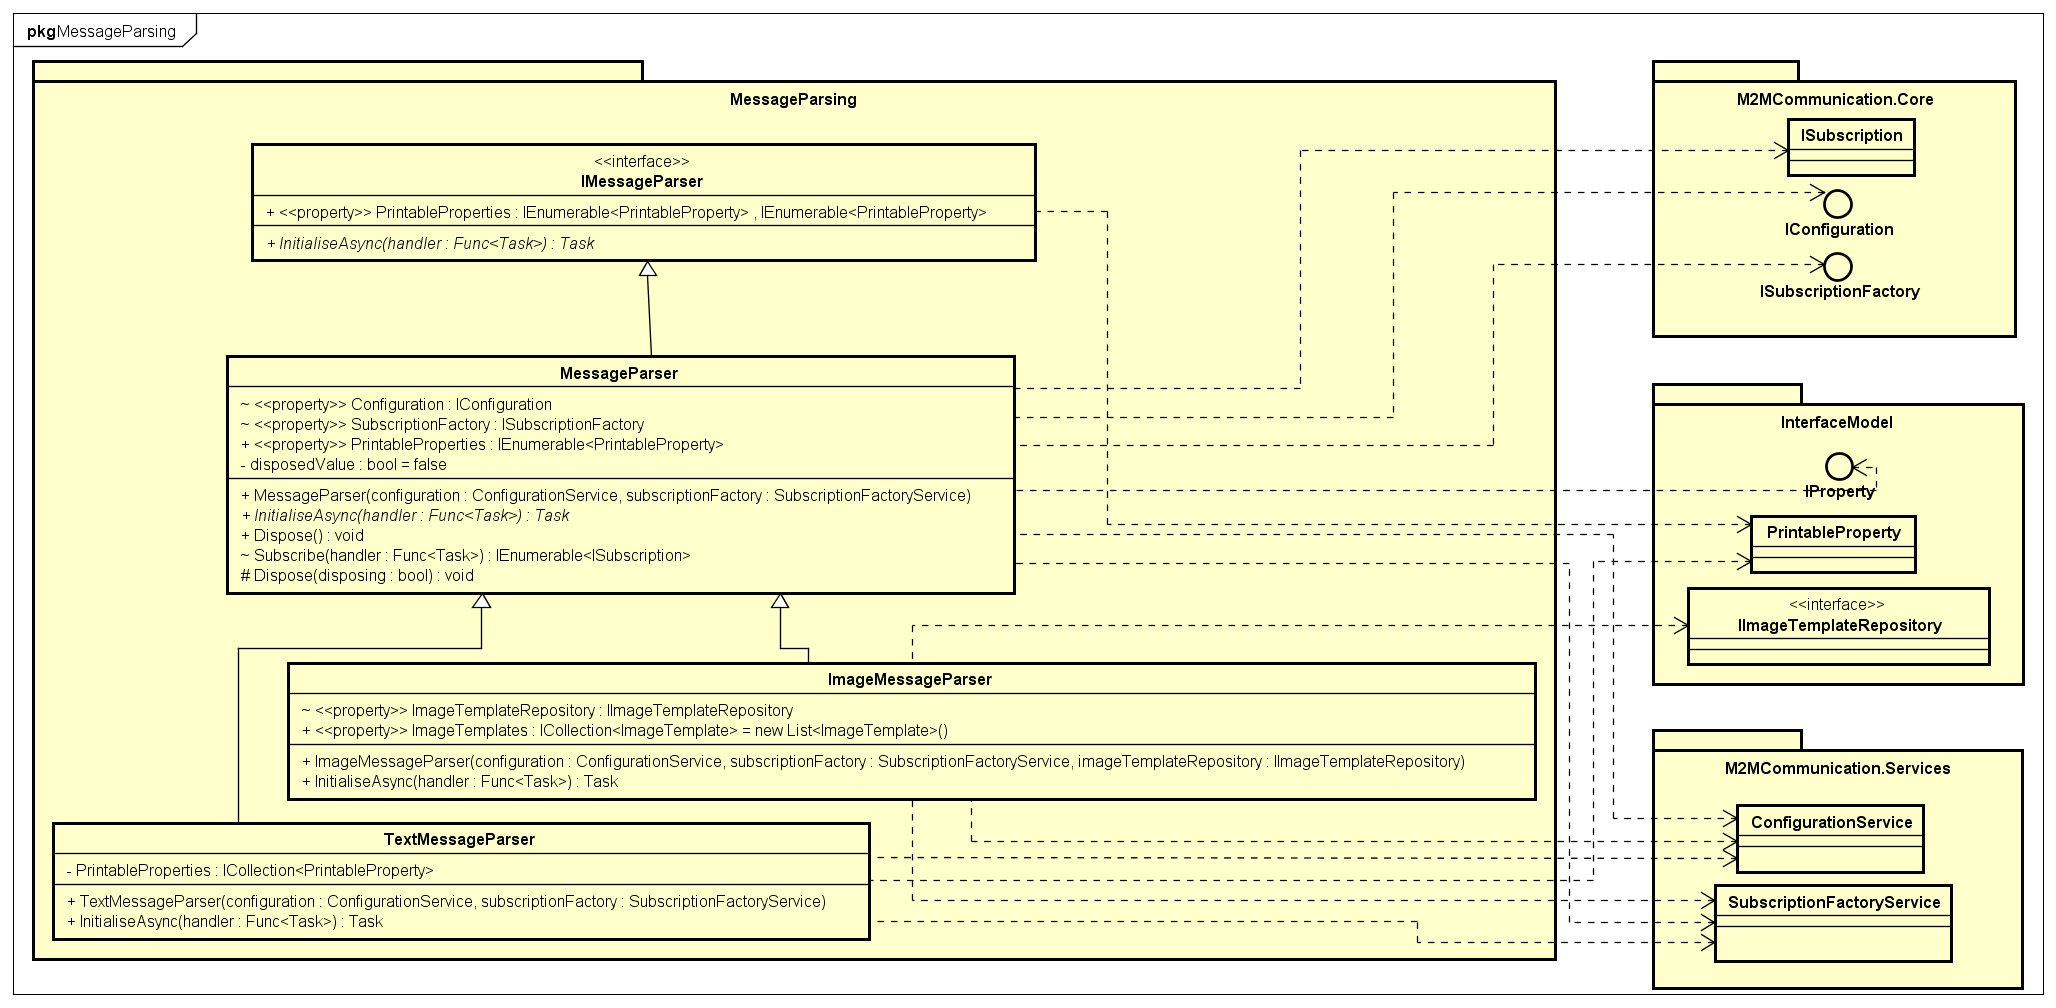
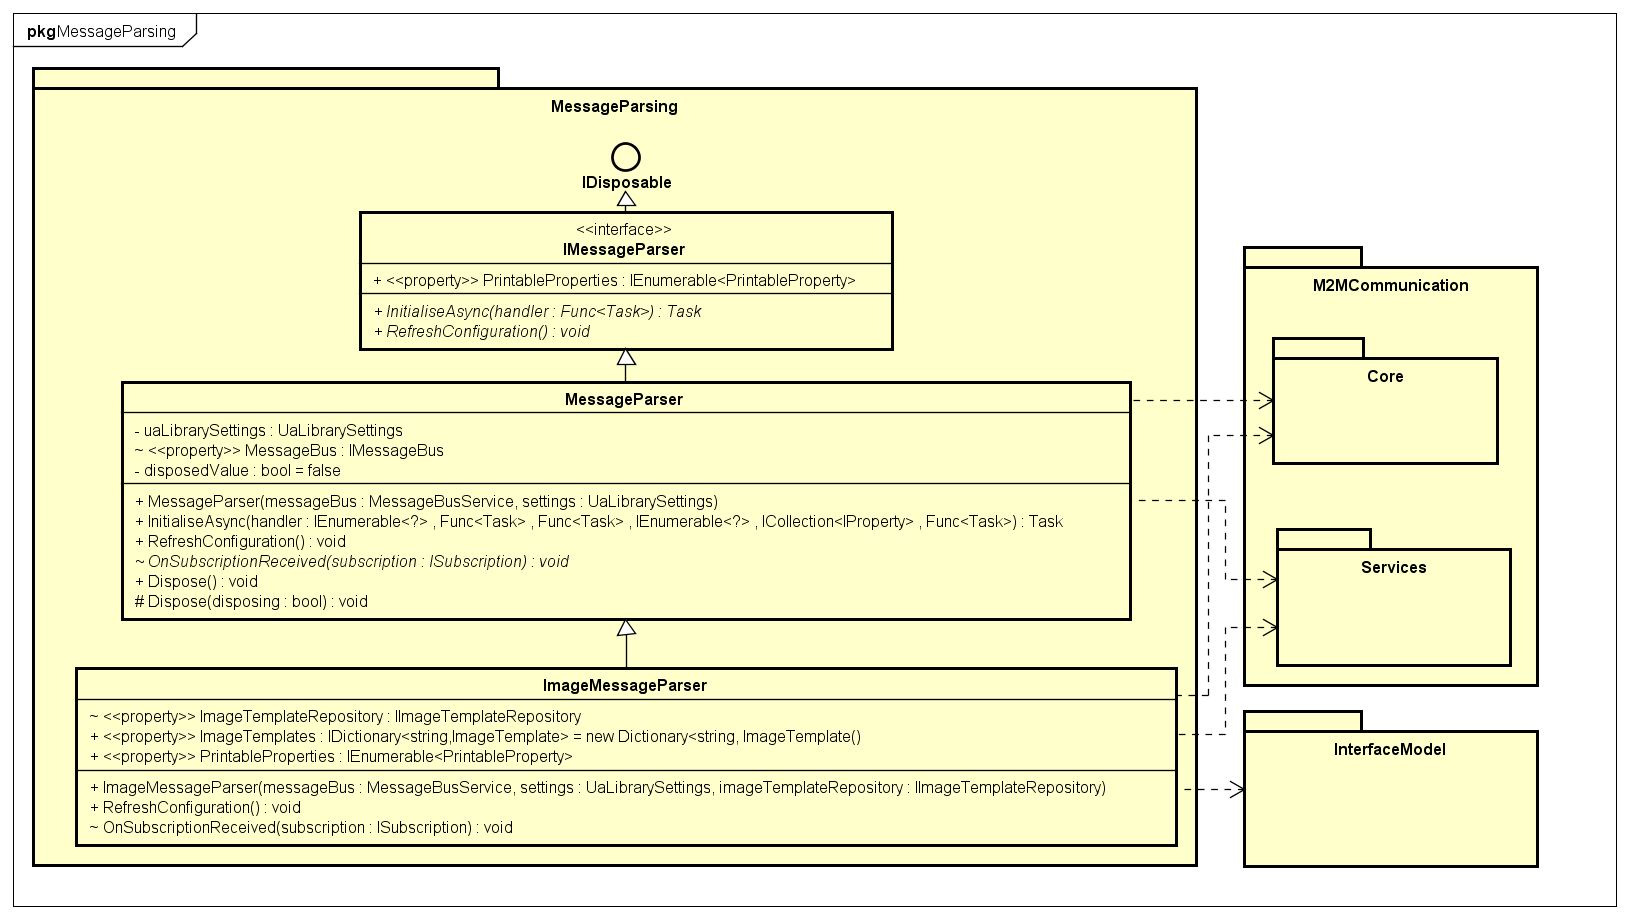
Updated reference

Changed region(s): [[0.0, 0.0, 1.0, 1.0]]

diff --git a/MessageParsing/MessageParsing/ImageMessageParser.cs b/MessageParsing/MessageParsing/ImageMessageParser.cs
@@ -14,8 +14,6 @@ namespace MessageParsing
         public override IEnumerable<PrintableProperty> PrintableProperties => ImageTemplates.Values.SelectMany(template => template.PrintableProperties);
         public IDictionary<string, ImageTemplate> ImageTemplates { get; } = new Dictionary<string, ImageTemplate>();
 
-        public event EventHandler OnImageTemplateAdded;
-
         public ImageMessageParser(MessageBusService messageBus, UaLibrarySettings settings, IImageTemplateRepository imageTemplateRepository)
             : base(messageBus, settings)
         {
@@ -42,7 +40,6 @@ namespace MessageParsing
                         subscription.UaTypeMetadata.RepositoryGroupName,
                         ImageTemplateRepository.GetImageTemplateByAlias(subscription?.TypeAlias).Subscribe(subscription)
                     );
-                    OnImageTemplateAdded?.Invoke(this, new EventArgs());
                 }
             }
         }

diff --git a/M2M/M2MCommunication.Uaooi/README.md b/M2M/M2MCommunication.Uaooi/README.md
@@ -10,6 +10,7 @@ The goal of this project is to implement the [UAOOI](https://https://github.com/
 | `Configuration` | Represents the configuration of the OPC-UA consumer; extends `ConfigurationFactoryBase` and implements `IConfiguration` |
 | `ConsumerBindingFactory` | Implementation of `IBindingFactory` and `ISubscriptionFactory` |
 | `UaooiMessageBus` | Represents the message bus; extends `DataManagementSetup` and implements `IMessageBus` |
+| `ConfigurationExtension` | A type that extends `ConfigurationData` and provides mappings of types used in the configuration to aliases used to create interfaces for the types | 
 | `UATypeInfoExtensions` | A set of extension methods for `UATypeInfo` type |
 
 ### *Subscription*

diff --git a/MessageParsing/InterfaceModel/README.md b/MessageParsing/InterfaceModel/README.md
@@ -1,6 +1,6 @@
 # Interface model
 
-This project contains the model used for displaying data (Model) to the end user and provides means to persist them (Repositories).
+This project contains the model used for displaying data (Model) to the end user and provides means to persist them (Repositories) with a way to configure it (Configuration).
 
 ## Model
 
